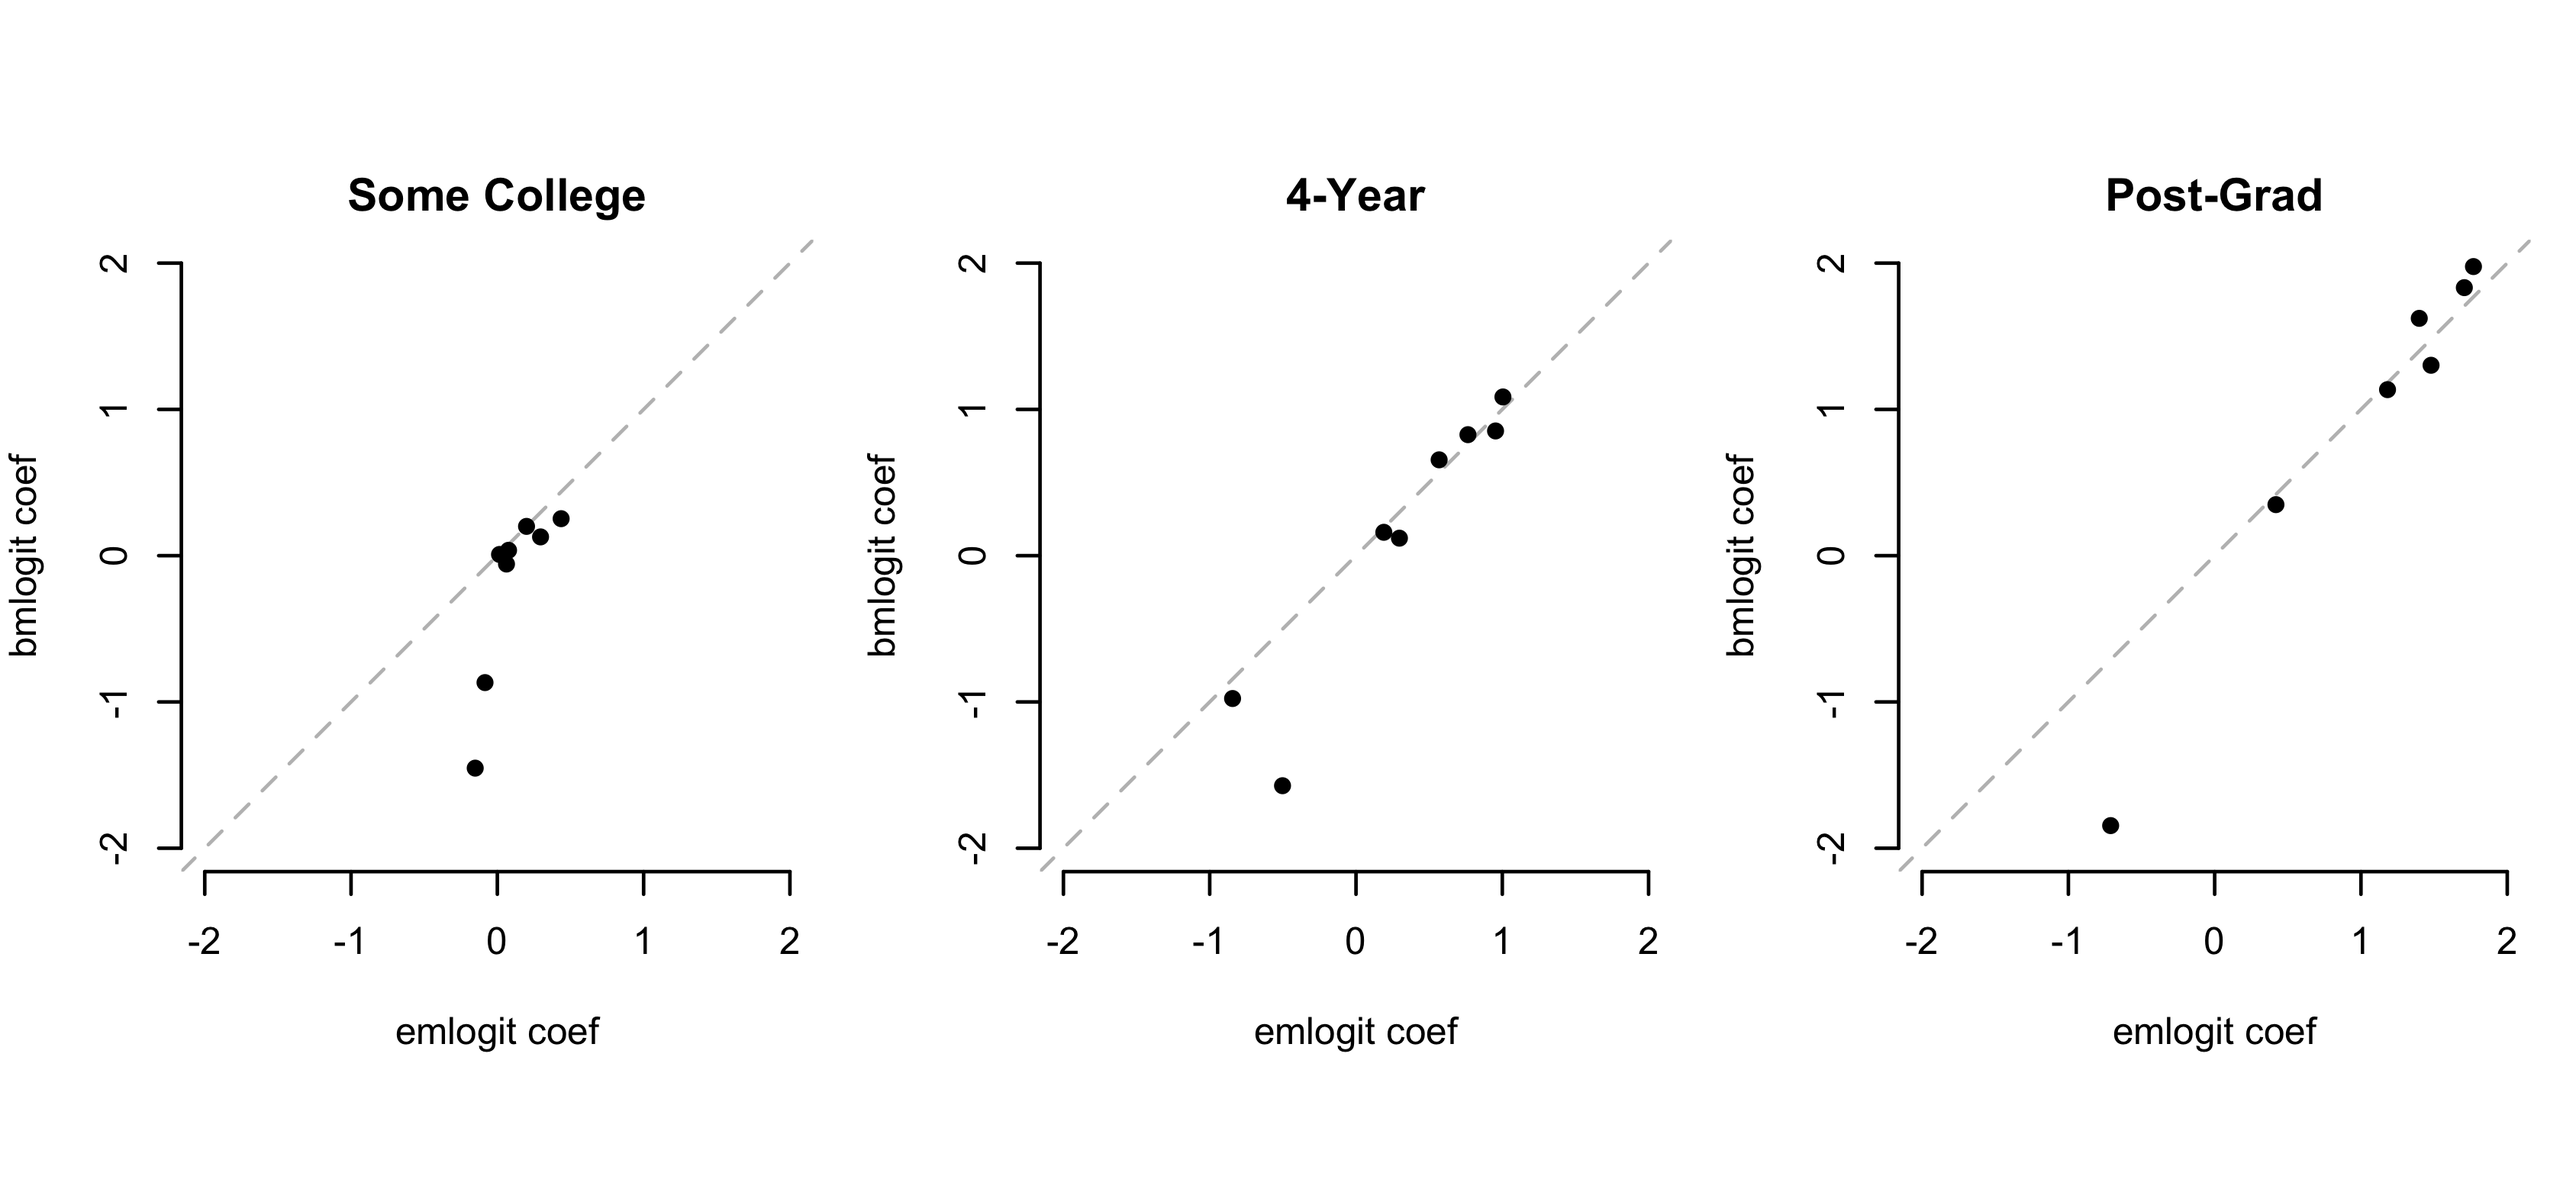
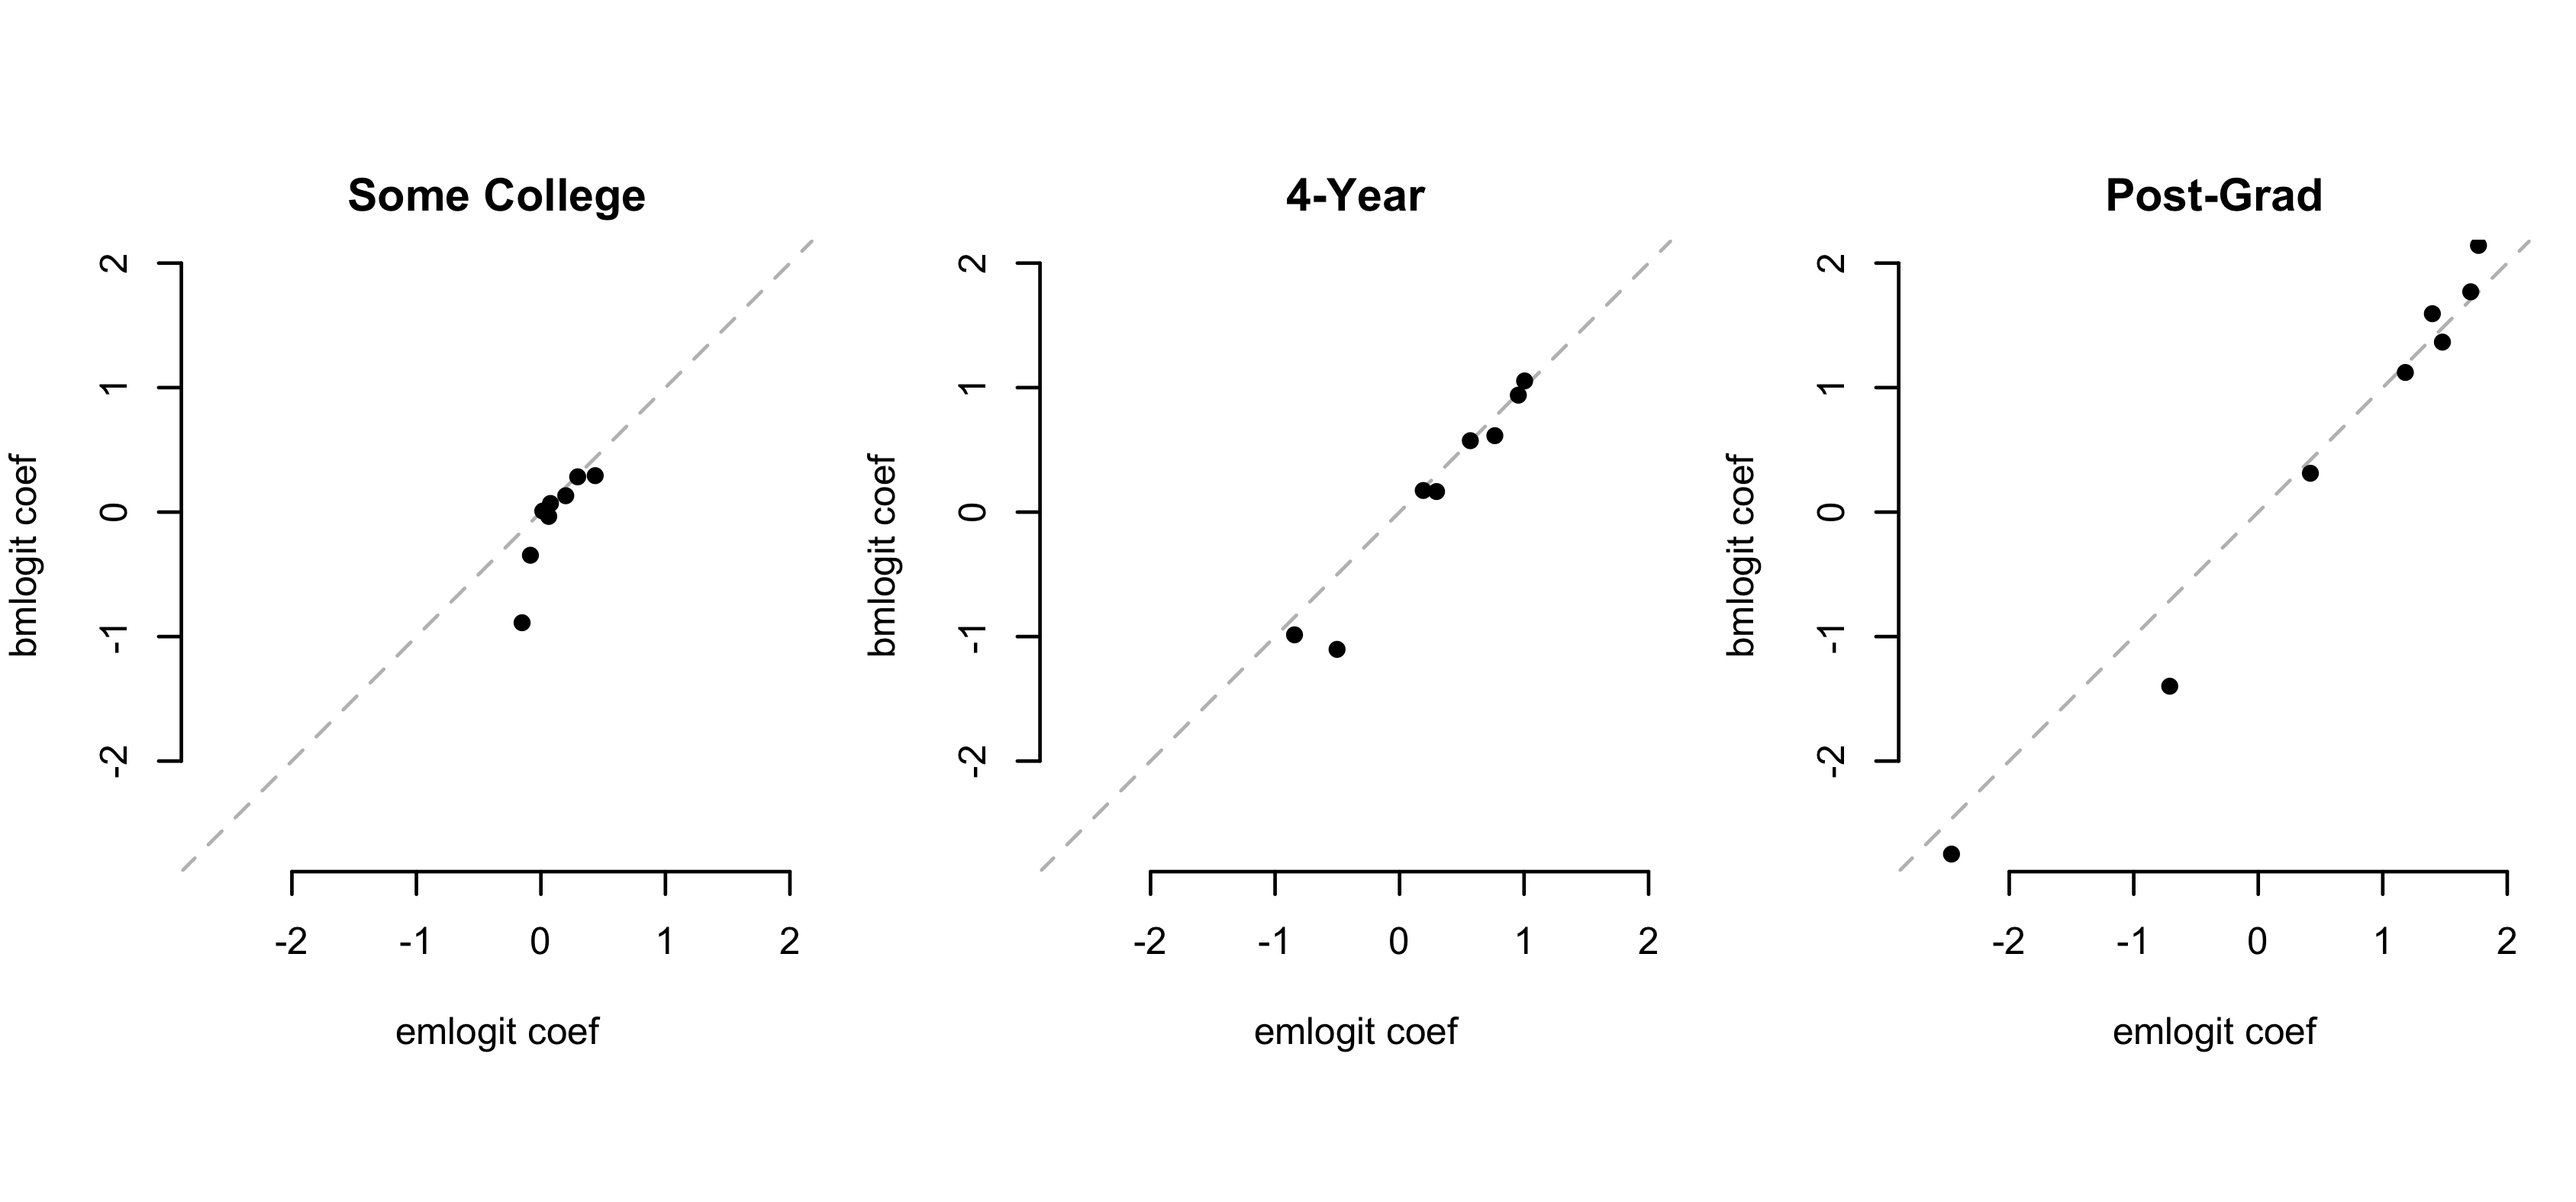
Show joint estimates

diff --git a/README.md b/README.md
@@ -25,6 +25,7 @@ devtools::install_github("soichiroy/bmlogit")
 library(bmlogit)
 library(emlogit)
 library(synthArea)
+
 library(tidyr)
 library(stringr)
 ```
@@ -52,8 +53,8 @@ acs_nc$rural <- urban_recode(acs_nc$cd)
 
 ``` r
 ## population data
-# target_Y <- acs_nc %>% count(educ, wt = N) %>% mutate(prop = n / sum(n)) %>% pull(prop)
-target_Y <- c(0.462, 0.258, 0.184, 0.096)
+target_Y <- acs_nc %>% count(educ, wt = N) %>% mutate(prop = n / sum(n)) %>% pull(prop)
+# target_Y <- c(0.462, 0.258, 0.184, 0.096)
 
 pop_X <- model.matrix(~age + gender + rural, data = acs_nc %>% count(age, gender, rural, wt = N))[,-1]
 count_N <- acs_nc %>% count(age, gender, rural, wt = N) %>% pull(n)
@@ -86,8 +87,8 @@ according to their known counts.
 
 |              | Target | bmlogit | emlogit |   Raw |
 |:-------------|-------:|--------:|--------:|------:|
-| HS or Less   |  0.462 |   0.460 |   0.297 | 0.294 |
-| Some College |  0.258 |   0.259 |   0.354 | 0.355 |
+| HS or Less   |  0.394 |   0.392 |   0.297 | 0.294 |
+| Some College |  0.327 |   0.327 |   0.354 | 0.355 |
 | 4-Year       |  0.184 |   0.186 |   0.230 | 0.231 |
 | Post-Grad    |  0.096 |   0.096 |   0.119 | 0.120 |
 
@@ -175,11 +176,16 @@ pop_emlogit <- bind_cols(popX_df, as_tibble(pr_joint)) %>%
 turnout_emlogit <- pred_turnout(pop_emlogit)
 ```
 
-And we finally compare all four. The true statewide turnout is 0.596.
+We can check how each synthetic estimator compares to the true cells.
+
+<img src="man/figures/README-joint-bmlogit-emlogit-1.png" width="100%" />
+
+And we finally compare the turnout estimates of the resulting
+post-stratification. The true statewide turnout is 0.596.
 
 | Estimator                  | Estimate |  Error |
 |:---------------------------|---------:|-------:|
 | Sample Mean                |    0.575 | -0.022 |
 | Post-str. w/ True Joint    |    0.562 | -0.034 |
-| Post-str. w/ bmlogit Joint |    0.555 | -0.041 |
+| Post-str. w/ bmlogit Joint |    0.562 | -0.034 |
 | Post-str. w/ emlogit Joint |    0.574 | -0.023 |
